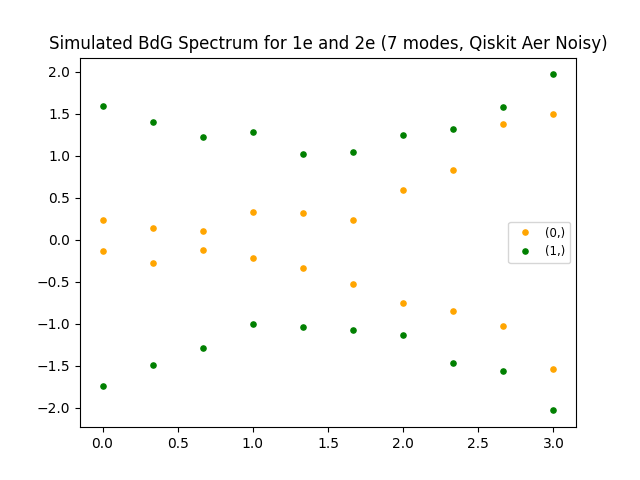
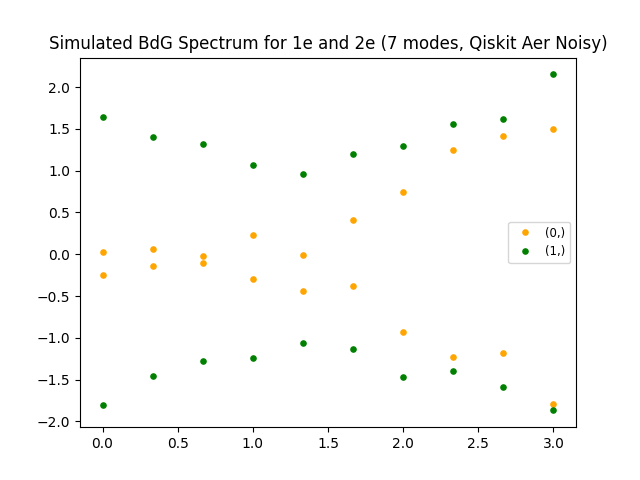
Added mthree error mitigation and tested

diff --git a/scripts/utils.py b/scripts/utils.py
@@ -24,6 +24,7 @@ from qiskit.result import QuasiDistribution
 
 from qiskit_aer import AerSimulator
 from qiskit.providers import BackendV2
+import mthree
 
 def orbital_combinations(
     n_modes: int, threshold: Optional[int] = None
@@ -634,7 +635,7 @@ def data_exact(n_modes: int, tunneling: float, superconducting: float, chemical_
     data["site_correlation_exact"] = {k: np.array(v) for k, v in site_correlation_exact.items()}
     return data
 
-def data_simulated(n_modes: int, tunneling: float, superconducting: float, chemical_potential_values: list[int], occupied_orbitals_list: list[tuple[int]], backend: BackendV2 = None, execute: bool = True) -> dict[str, dict[tuple[int, ...], list[float]]]:
+def data_simulated(n_modes: int, tunneling: float, superconducting: float, chemical_potential_values: list[int], occupied_orbitals_list: list[tuple[int]], backend: BackendV2 = None, execute: bool = True, mitigation: bool = True) -> dict[str, dict[tuple[int, ...], list[float]]]:
     data = {k: defaultdict(list) for k in ['energy_simulated', 'bdg_energy_simulated', 'energy_error', 'site_correlation_simulated', 'site_correlation_error']}
     if execute:
         ####### Simulation of Circuits #######
@@ -650,6 +651,12 @@ def data_simulated(n_modes: int, tunneling: float, superconducting: float, chemi
                     result = simulator.run(qc).result()
                     counts = result.get_counts(qc)
                     quasis[key] = counts_to_quasis(counts)
+                    if mitigation:
+                        mappings = mthree.utils.final_measurement_mapping(qc)
+                        mit = mthree.M3Mitigation(backend)
+                        mit.cals_from_system(mappings, shots=8192)
+                        corrected = dict(mit.apply_correction(counts, mappings))
+                        quasis[key] = QuasiDistribution(corrected, shots=8192)
                 corr_simulated, cov_simulated = compute_correlation_matrix(quasis)
                 hamiltonian_quad = kitaev_hamiltonian(
                     n_modes,
